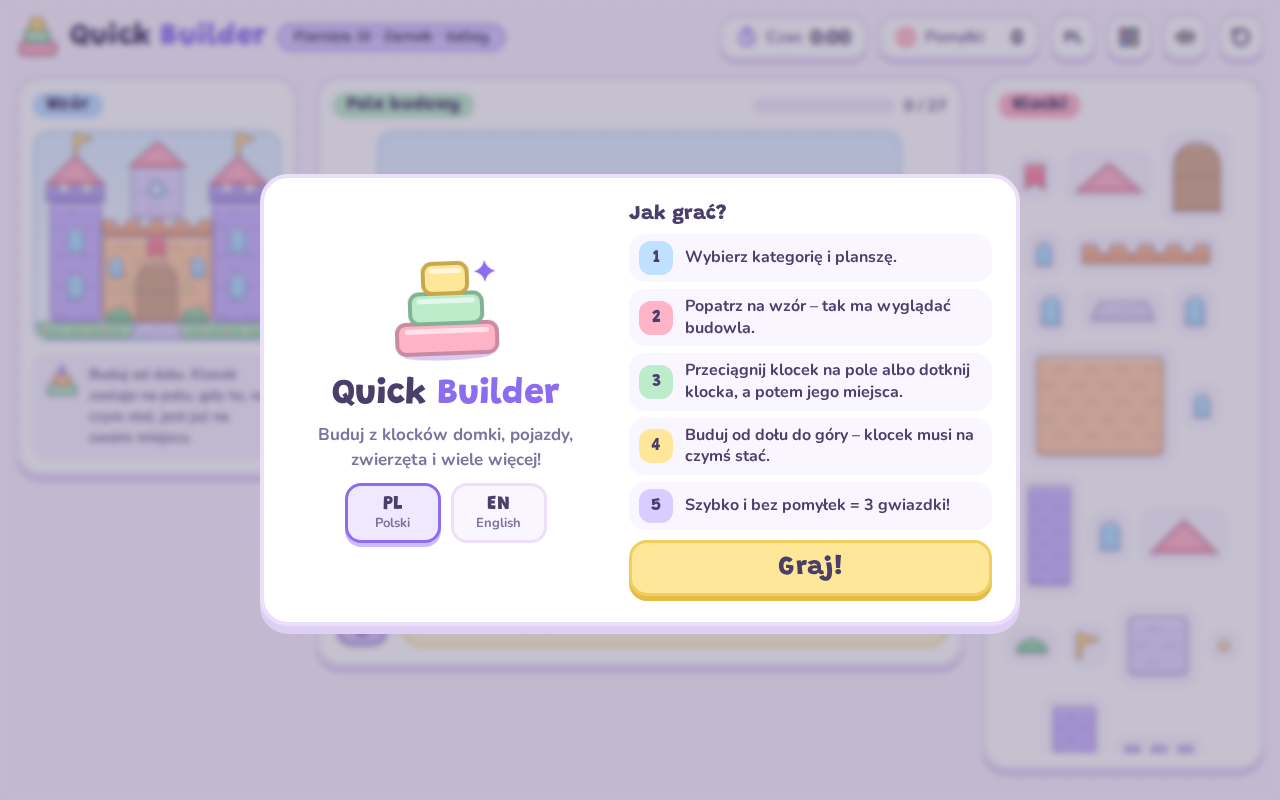
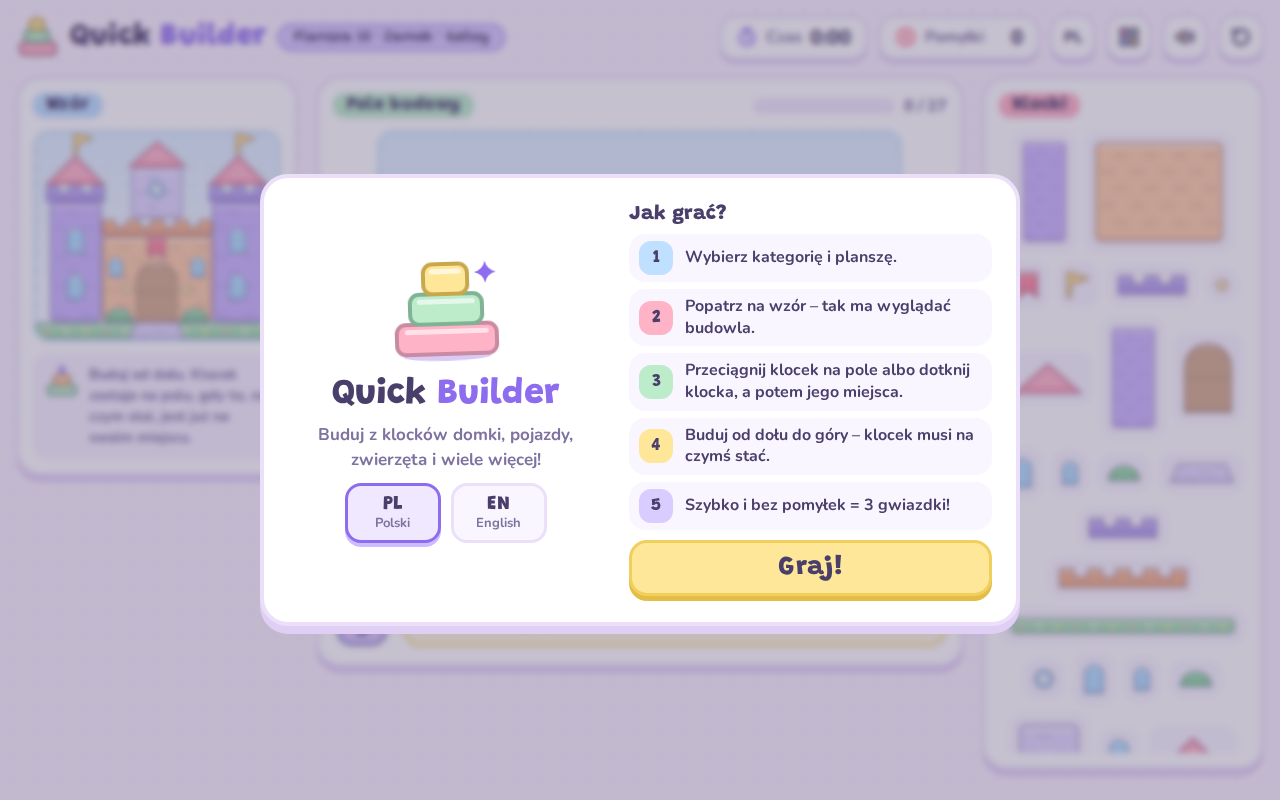
Add files via upload

Changed region(s): [[0.7812, 0.1562, 0.9688, 0.9375], [0.3438, 0.3125, 0.375, 0.3438]]

diff --git a/index.html b/index.html
@@ -504,11 +504,10 @@ body{overscroll-behavior-y:none}
 #levels-overlay .level-grid[hidden]{display:none}
 #levels-overlay .level-tile{display:flex;flex-direction:column;gap:6px;min-height:0;overflow:hidden}
 #levels-overlay .lt-meta{margin-top:auto}
-.lt-pic{position:relative;flex:none;display:flex;justify-content:center}
-.lt-pic .board.mini{width:var(--pw,100%);flex:none}
+.lt-pic{position:relative;flex:none;display:block}
+.lt-pic .board.mini{display:block;width:var(--pw,100%);height:var(--ph,auto);margin:0 auto}
 .lt-pic .lock{top:50%;width:min(44px,calc(var(--pw,88px) * .5));height:min(44px,calc(var(--pw,88px) * .5))}
-#levels-overlay .level-grid.measure .lt-pic{flex:1 1 0;min-height:0}
-#levels-overlay .level-grid.measure .board.mini{display:none}
+
 .lt-name{align-self:start}
 .lt-short{display:none}
 @media (min-height:860px) and (min-width:1021px){#levels-overlay #levels-sub{display:block}}
@@ -556,7 +555,6 @@ body{overscroll-behavior-y:none}
   #levels-overlay .diff button{padding:4px 6px;column-gap:4px;justify-content:center}
   #levels-overlay .diff button b{font-size:14px}
   #levels-overlay .diff button svg{width:22px;height:18px}
-  #levels-overlay .lt-pic .board.mini{width:100%!important;display:block!important}
   #levels-overlay .lt-pic .lock{width:44px;height:44px}
 }
 </style>
@@ -3452,14 +3450,16 @@ function boardVars(el,L){
 // rozmiar obrazków w kafelkach: jeden wspólny rozmiar, żeby wszystko zmieściło się bez przewijania
 function fitPics(){
   const g=document.querySelector('#levels-overlay .level-grid:not([hidden])');if(!g||$('#levels-overlay').hidden)return;
-  const tiles=[...g.querySelectorAll('.level-tile')];
-  if(matchMedia('(orientation:portrait) and (max-width:700px)').matches){tiles.forEach(t=>t.style.removeProperty('--pw'));return}
-  g.classList.add('measure');const rows=new Map();
-  tiles.forEach(t=>{const p=t.querySelector('.lt-pic'),w=p.clientWidth,h=p.clientHeight,k=Math.round(t.offsetTop);
-    if(w>0)rows.set(k,Math.min(rows.has(k)?rows.get(k):Infinity,w,h*14/12))});
-  g.classList.remove('measure');
-  // ten sam rozmiar w całym rzędzie, żeby kafelki wyglądały równo
-  tiles.forEach(t=>{const v=rows.get(Math.round(t.offsetTop));if(v&&isFinite(v))t.style.setProperty('--pw',Math.max(40,Math.floor(v))+'px')});
+  const tiles=[...g.querySelectorAll('.level-tile')],px=v=>parseFloat(v)||0;
+  const free=matchMedia('(orientation:portrait) and (max-width:700px)').matches; // pion: lista przewijana, obrazek na całą szerokość
+  const rows=new Map(),size=new Map();
+  // wymiary liczone z wysokości kafelka (bez aspect-ratio / flex – Safari na iPadzie potrafił zwinąć obrazek do zera)
+  tiles.forEach(t=>{const cs=getComputedStyle(t),name=t.querySelector('.lt-name'),meta=t.querySelector('.lt-meta');
+    const w=t.clientWidth-px(cs.paddingLeft)-px(cs.paddingRight);
+    const h=t.clientHeight-px(cs.paddingTop)-px(cs.paddingBottom)-(name?name.offsetHeight:0)-(meta?meta.offsetHeight:0)-2*px(cs.rowGap||cs.gap);
+    const v=free?w:Math.min(w,h*14/12);size.set(t,v);const k=Math.round(t.offsetTop);rows.set(k,Math.min(rows.has(k)?rows.get(k):Infinity,v))});
+  tiles.forEach(t=>{let v=free?size.get(t):rows.get(Math.round(t.offsetTop));if(!(v>0)||!isFinite(v))v=100;v=Math.max(40,Math.floor(v));
+    t.style.setProperty('--pw',v+'px');t.style.setProperty('--ph',Math.round(v*12/14)+'px')});
 }
 if(window.ResizeObserver)new ResizeObserver(()=>fitPics()).observe($('#levels-overlay'));
 addEventListener('resize',fitPics);

diff --git a/sw.js b/sw.js
@@ -1,5 +1,5 @@
 // Quick Builder – tryb offline
-const CACHE='quick-builder-997a9542e5';
+const CACHE='quick-builder-096f7bafaa';
 const ASSETS=["./", "index.html", "manifest.webmanifest", "icons/apple-touch-icon.png", "icons/favicon-32.png", "icons/icon-192.png", "icons/icon-512.png", "icons/icon-maskable-512.png", "fonts/grandstander-latin-600-normal.woff2", "fonts/grandstander-latin-800-normal.woff2", "fonts/grandstander-latin-ext-600-normal.woff2", "fonts/grandstander-latin-ext-800-normal.woff2", "fonts/nunito-latin-600-normal.woff2", "fonts/nunito-latin-700-normal.woff2", "fonts/nunito-latin-800-normal.woff2", "fonts/nunito-latin-ext-600-normal.woff2", "fonts/nunito-latin-ext-700-normal.woff2", "fonts/nunito-latin-ext-800-normal.woff2"];
 
 self.addEventListener('install',e=>{
